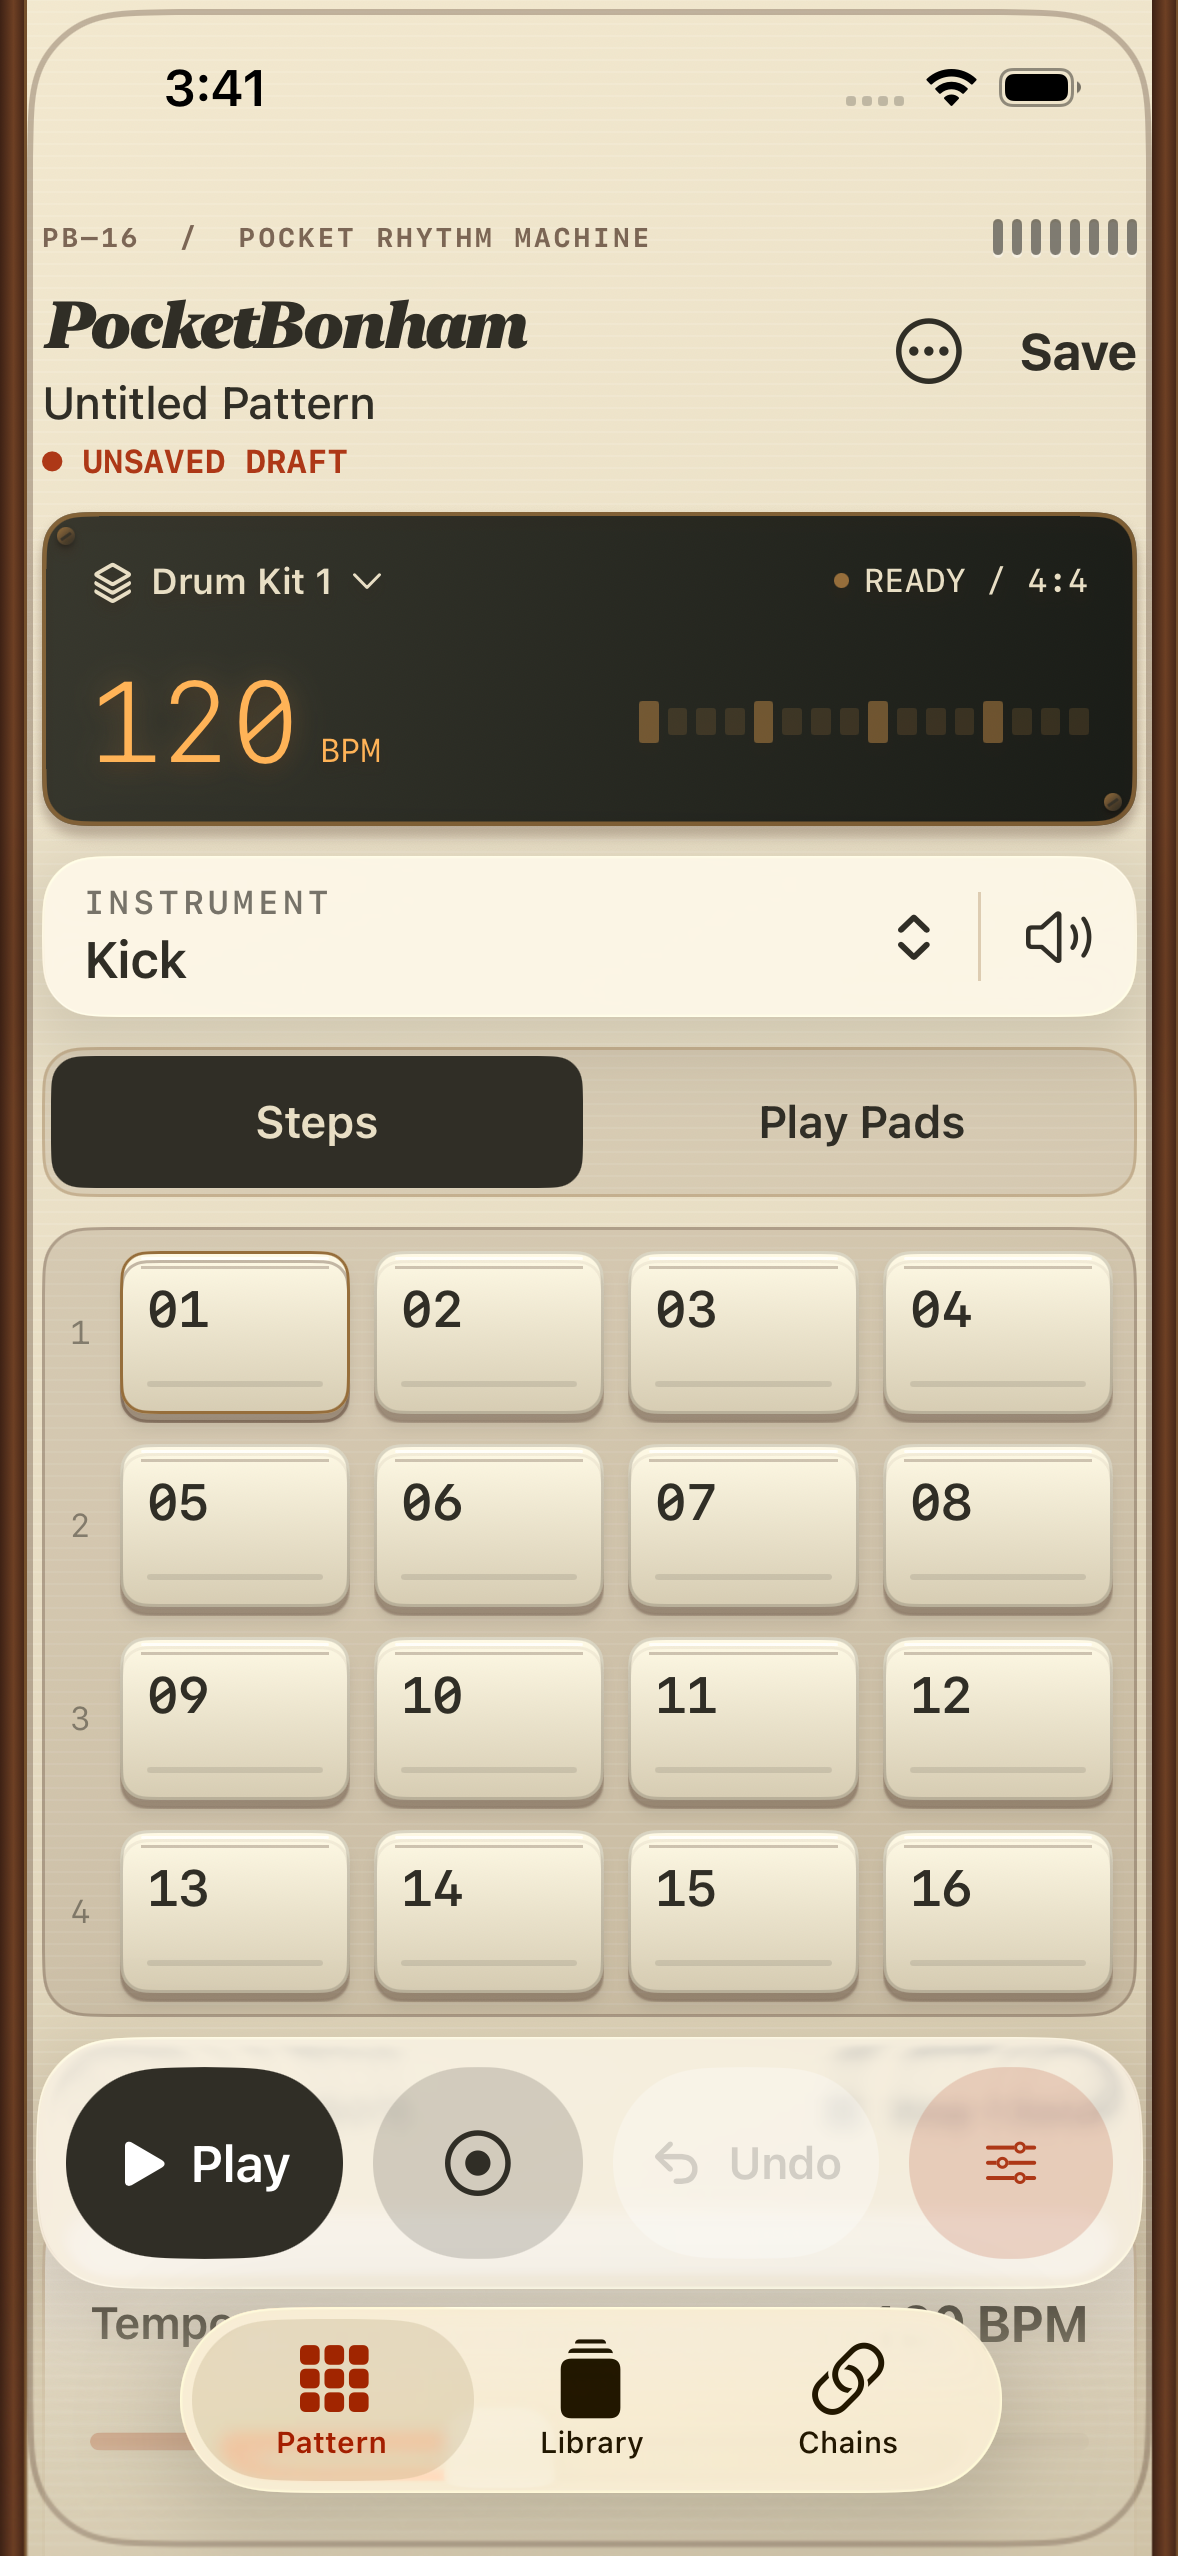
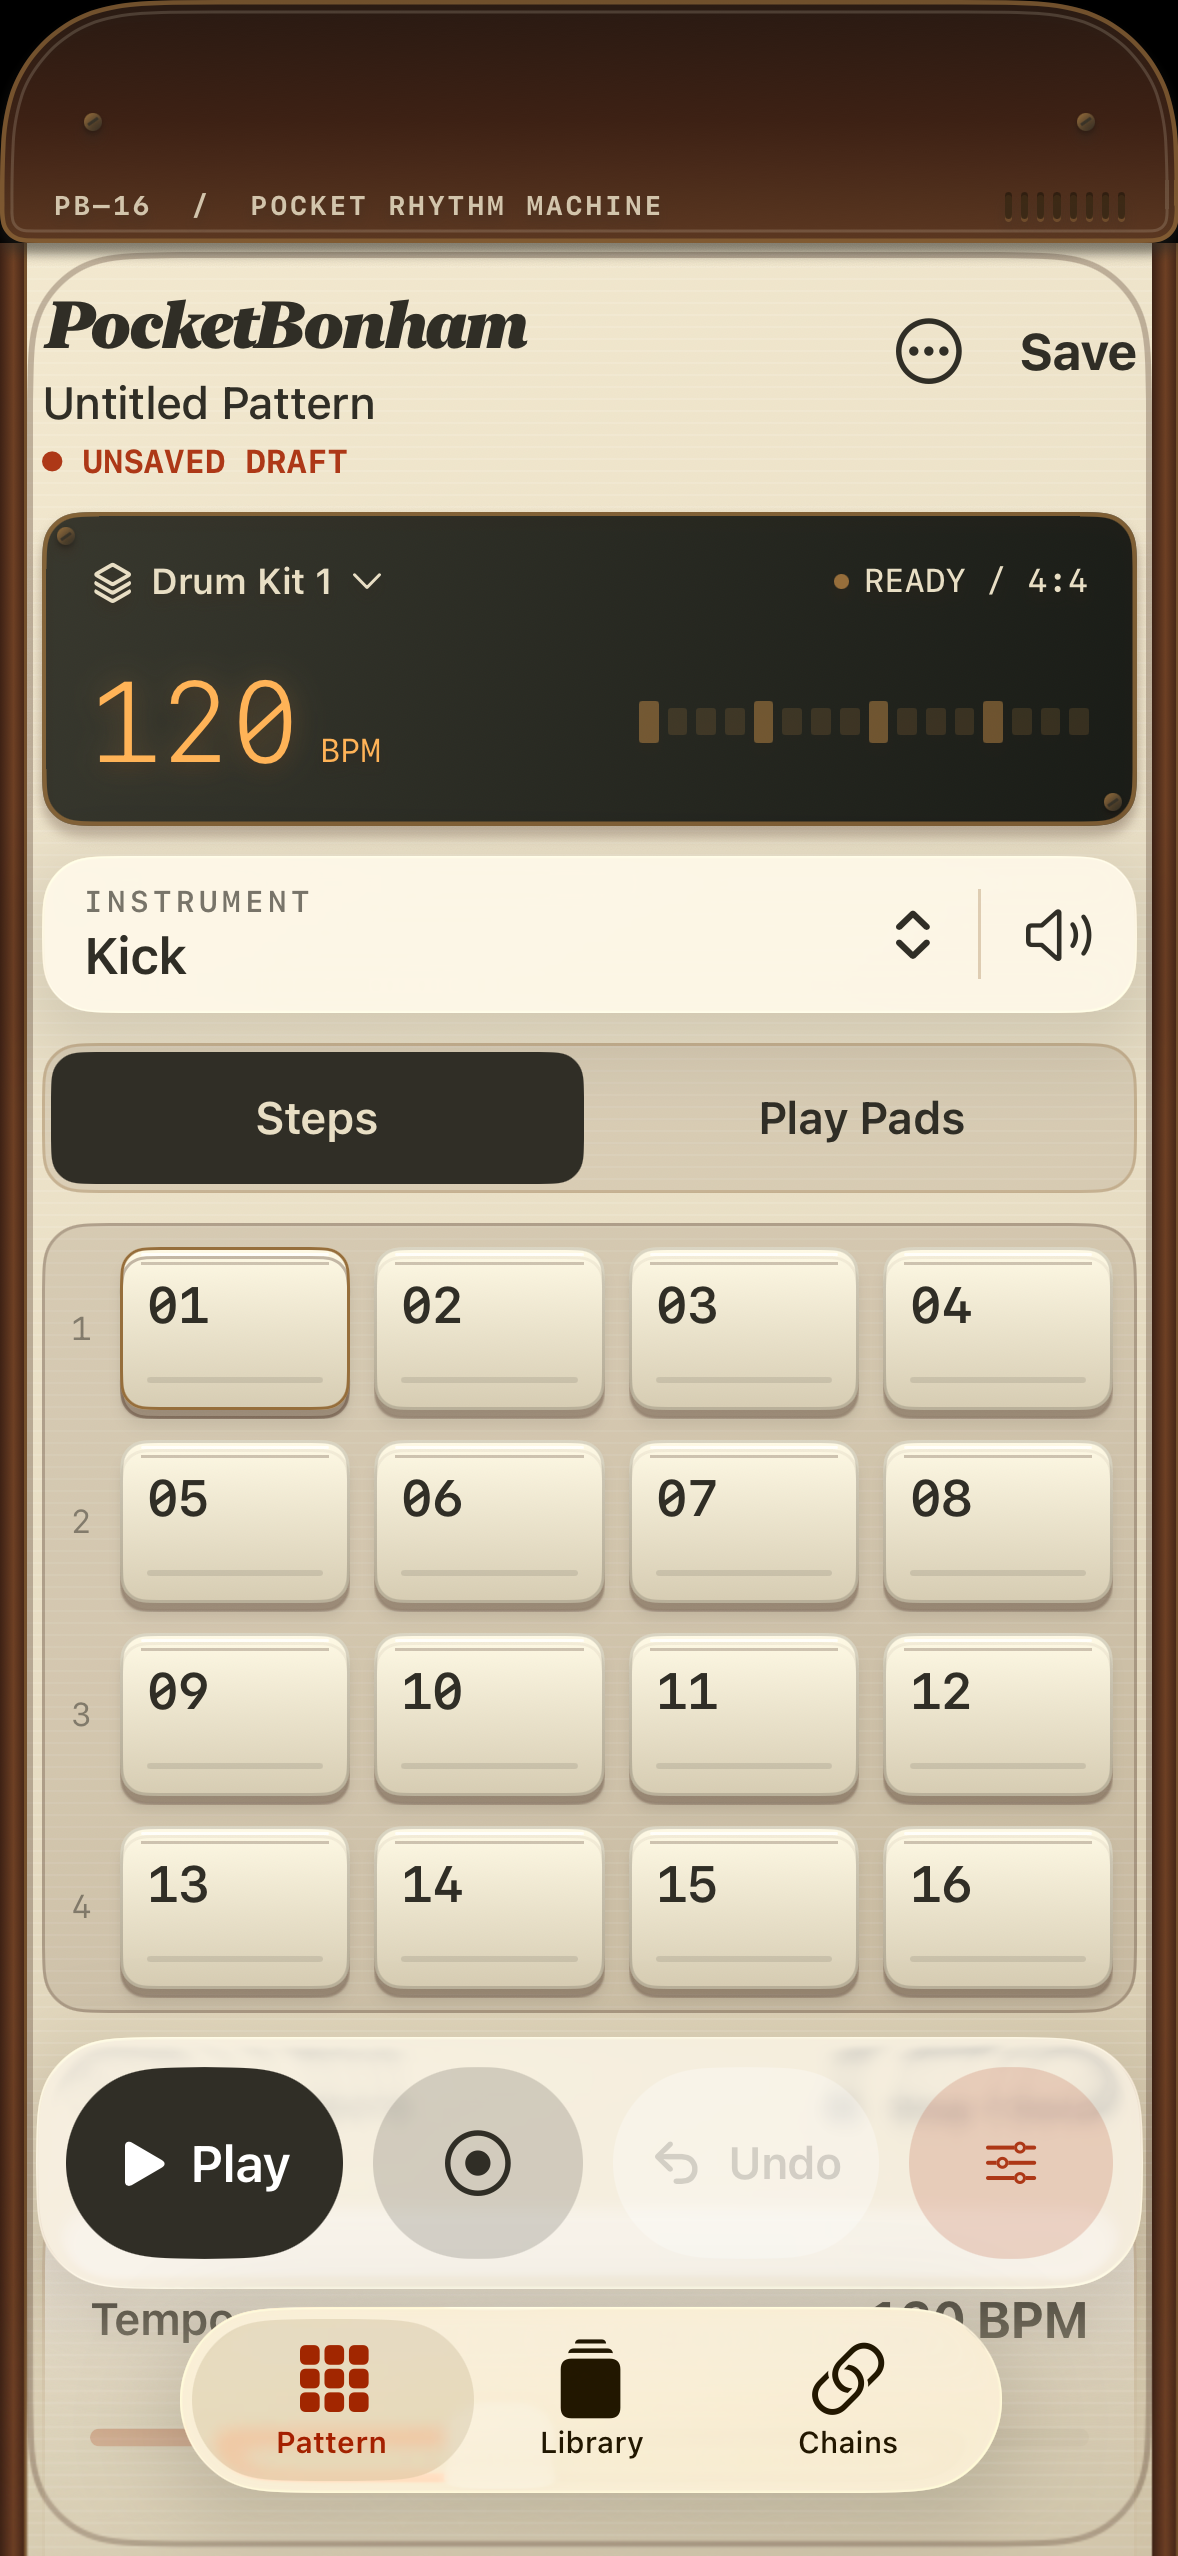
Extend fixed vintage enclosure around the Dynamic Island

diff --git a/PocketBonham/Features/InstrumentDesign.swift b/PocketBonham/Features/InstrumentDesign.swift
@@ -143,3 +143,56 @@ struct VelocityFader: View {
       .accessibilityIdentifier("velocityFader")
   }
 }
+
+/// The enclosure belongs to the screen, not the scrolling editor. Its top surface
+/// extends through the system safe area so the camera cutout sits in the casing.
+struct InstrumentChassis: ViewModifier {
+  func body(content: Content) -> some View {
+    GeometryReader { geometry in
+      content
+        .padding(.top, 22)
+        .overlay(alignment: .top) {
+          InstrumentTopCap()
+            .frame(height: geometry.safeAreaInsets.top + 22)
+            .offset(y: -geometry.safeAreaInsets.top)
+            .allowsHitTesting(false)
+        }
+    }.statusBarHidden(true)
+  }
+}
+
+private struct InstrumentTopCap: View {
+  private let outline = UnevenRoundedRectangle(
+    topLeadingRadius: 48, bottomLeadingRadius: 9,
+    bottomTrailingRadius: 9, topTrailingRadius: 48)
+
+  var body: some View {
+    ZStack(alignment: .bottom) {
+      outline.fill(LinearGradient(
+        colors: [Color(red: 0.16, green: 0.10, blue: 0.07), .walnut,
+          Color(red: 0.36, green: 0.22, blue: 0.13)],
+        startPoint: .top, endPoint: .bottom))
+      outline.strokeBorder(Color.brass.opacity(0.65), lineWidth: 1.5)
+      outline.inset(by: 4).stroke(Color.casing.opacity(0.18), lineWidth: 1)
+      HStack {
+        ScrewHead()
+        Spacer()
+        ScrewHead()
+      }.padding(.horizontal, 28).frame(maxHeight: .infinity, alignment: .center)
+      HStack(spacing: 8) {
+        Text("PB–16  /  POCKET RHYTHM MACHINE")
+          .font(.system(size: 9, weight: .bold, design: .monospaced)).tracking(1)
+          .lineLimit(1).minimumScaleFactor(0.7)
+        Spacer(minLength: 0)
+        SpeakerGrille().frame(width: 40, height: 9)
+          .colorMultiply(.brass)
+      }.foregroundStyle(Color.casing.opacity(0.85))
+        .padding(.horizontal, 18).padding(.bottom, 7)
+    }
+    .background(Color.black)
+    .shadow(color: Color.ink.opacity(0.35), radius: 2, y: 3)
+    .accessibilityElement(children: .ignore)
+    .accessibilityLabel("PocketBonham PB–16 enclosure")
+    .accessibilityIdentifier("instrumentTopCap")
+  }
+}

diff --git a/PocketBonhamUITests/PocketBonhamUITests.swift b/PocketBonhamUITests/PocketBonhamUITests.swift
@@ -1,6 +1,37 @@
 import XCTest
 
 final class PocketBonhamUITests: XCTestCase {
+  @MainActor func testChassisStaysAtScreenTopWhileScrollingAndChangingTabs() throws {
+    let app = XCUIApplication()
+    app.launchEnvironment["PB_TEST_SESSION"] = UUID().uuidString
+    app.launch()
+    let cap = app.descendants(matching: .any)["instrumentTopCap"].firstMatch
+    XCTAssertTrue(cap.waitForExistence(timeout: 10))
+    let topFrame = cap.frame
+    XCTAssertEqual(topFrame.minY, app.frame.minY, accuracy: 1,
+      "The casing must extend through the top safe area")
+    XCTAssertGreaterThanOrEqual(app.staticTexts["PocketBonham"].frame.minY, topFrame.maxY,
+      "The wordmark must be fully below the casing")
+    XCTAssertGreaterThanOrEqual(app.buttons["savePattern"].frame.minY, topFrame.maxY,
+      "The casing cannot cover the editor header")
+    XCTAssertGreaterThan(topFrame.height, 60, "The end cap must enclose the camera area")
+    XCTAssertLessThan(topFrame.height, 110, "Controls must remain below a compact end cap")
+    let initial = XCTAttachment(screenshot: app.screenshot())
+    initial.name = "Fixed enclosure — screen top"
+    initial.lifetime = .keepAlways
+    add(initial)
+    app.scrollViews.firstMatch.swipeUp()
+    XCTAssertEqual(cap.frame, topFrame, "The physical top cannot move with the editor")
+    let scrolled = XCTAttachment(screenshot: app.screenshot())
+    scrolled.name = "Fixed enclosure — editor scrolled"
+    scrolled.lifetime = .keepAlways
+    add(scrolled)
+    for tab in ["Library", "Chains", "Pattern"] {
+      app.tabBars.buttons[tab].tap()
+      XCTAssertEqual(cap.frame, topFrame, "The enclosure must stay fixed in \(tab)")
+    }
+  }
+
   @MainActor func testInstrumentDropdownPreservesIndependentSteps() throws {
     let app = XCUIApplication()
     app.launchEnvironment["PB_TEST_SESSION"] = UUID().uuidString

diff --git a/PocketBonham/Features/RootView.swift b/PocketBonham/Features/RootView.swift
@@ -17,6 +17,7 @@ struct RootView: View {
         Label("Chains", systemImage: "link")
       }.tag("chains")
     }.tint(.signal)
+      .modifier(InstrumentChassis())
       .sheet(isPresented: $settings) { SettingsView(store: store, audio: audio) }
       .alert(
         "PocketBonham",
@@ -89,11 +90,6 @@ struct PatternView: View {
   var body: some View {
     ScrollView {
       VStack(alignment: .leading, spacing: 10) {
-        HStack {
-          Text("PB–16  /  POCKET RHYTHM MACHINE").font(.system(size: 9, weight: .bold, design: .monospaced)).tracking(1)
-          Spacer()
-          SpeakerGrille().frame(width: 48, height: 12)
-        }.foregroundStyle(Color.walnut.opacity(0.65)).accessibilityHidden(true)
         HStack(alignment: .top) {
           VStack(alignment: .leading, spacing: 4) {
             Text("PocketBonham").font(.system(.title2, design: .serif).weight(.black))
@@ -219,7 +215,8 @@ struct PatternView: View {
         Text("A little machine. A big pocket.").font(.system(.subheadline, design: .serif).italic())
           .foregroundStyle(Color.ink.opacity(0.45)).padding(.bottom, 8)
       }.padding(14)
-    }.scrollDisabled(velocityEdit != nil)
+    }.scrollIndicators(.hidden)
+      .scrollDisabled(velocityEdit != nil)
       .onDisappear { finishVelocity() }
       .onChange(of: scenePhase) { _, phase in if phase != .active { finishVelocity() } }
       .onChange(of: store.selectedTrack) { _, _ in finishVelocity() }

diff --git a/AI_CONTEXT.md b/AI_CONTEXT.md
@@ -29,6 +29,10 @@ The owner requested a more vintage analog appearance that blends with modern App
 
 The horizontal instrument scroller is replaced with an **Instrument** menu listing the entire current kit. Preserve its `instrumentSelector` accessibility identifier and `instrument-option-<role>` identifiers. Choosing a drum changes only editing selection and the appropriate pad page; notes on other tracks must remain intact. Audition remains a separate adjacent button. Visual components are in `PocketBonham/Features/InstrumentDesign.swift`; use the existing theme rather than introducing another palette.
 
+### The phone is the enclosure
+
+The owner wants the screen's top to read as the physical end of the vintage machine, including the area around the iPhone 16 Dynamic Island. `InstrumentChassis` at the root pins a rounded walnut/brass end cap above all three workspaces. The cap uses the root safe-area inset to extend to the actual screen top, hides the status bar for the instrument presentation, and moves the model engraving out of the scrolling editor. The camera hardware remains a system cutout; do not draw a fake island or place controls underneath it. Keep the cap outside scroll views and preserve the user's ability to scroll lower controls at large text sizes.
+
 ### Hold-and-slide per-note velocity
 
 Holding an enabled sequencer pad for 0.35 seconds reveals a vertical fader; the same finger drags up/down to change that note's `Step.level` (1–127), and release closes it. A 160-point vertical drag spans the full range. The target pattern UUID, instrument ID and step are captured at the beginning; other tracks and steps remain unchanged. Each drag is one undo group. Cancellation ends the group at its current value; backgrounding, navigation or selection changes dismiss the fader. Holding a disabled step still opens Step Details. Full Step Details remains available via the explicit button. VoiceOver supports ±5 adjustments.
@@ -69,6 +73,7 @@ Drum Kit 1 sorts ahead of fixtures and is the fresh-library default. Existing ki
 
 - Latest ordinary package run after the hat fix: **29 discovered, 28 passed, one opt-in hour test skipped, zero failures**.
 - Full simulator UI run: **6 passed, zero failures**, approximately 130 seconds; both affected layout tests passed again after final pad-size and large-text refinements.
+- Latest fixed-enclosure update: **4 affected UI tests passed**, including a new scroll/tab/header-clearance regression; signed iPhone Release build and signature verification passed. See [enclosure evidence](docs/evidence/enclosure-verification.txt).
 - The earlier full offline hour passed with every measured onset within one frame. It is accelerated musical time, not an hour of physical-phone stability.
 - All nine supplied samples decode at both 44.1 and 48 kHz. Kit 1 is 1.31 MiB of stereo PCM at 48 kHz; combined with fixtures, 3.26 MiB / 192 MiB preparation budget.
 - Simulator app built, installed and launched. Signed iPhone Release build and signature verification succeeded locally.

diff --git a/README.md b/README.md
@@ -18,7 +18,7 @@ Built with **SwiftUI · UIKit · AVAudioEngine · Swift · C++17** for **iOS 18+
 
 Choose a drum and place hits on the grid. Hold a lit step and slide up or down to set its velocity. Dial in swing, add a snare roll, or pitch a single tom without changing the rest of the track. Switch to pads to overdub a performance, then save the pattern and combine it with others in a chain.
 
-The interface borrows the focus of a small hardware instrument: walnut edges, cream keycaps, brass details, dark pads and an amber tempo display. A direct instrument dropdown and floating glass transport bring that vintage character into a modern iPhone interface. [See the per-note velocity fader](docs/images/velocity.png).
+A fixed rounded top cap surrounds the camera area, making the phone feel like the instrument itself. The interface borrows the focus of a small hardware instrument: walnut edges, cream keycaps, brass details, dark pads and an amber tempo display. A direct instrument dropdown and floating glass transport bring that vintage character into a modern iPhone interface. [See the per-note velocity fader](docs/images/velocity.png).
 
 | Make the beat | Give it character | Build the arrangement |
 |---|---|---|

diff --git a/docs/Testing.md b/docs/Testing.md
@@ -76,6 +76,8 @@ After final layout refinements, the pad and accessibility tests passed again; th
 
 See the [vintage/velocity verification summary](evidence/vintage-velocity-verification.txt).
 
+A separate enclosure regression checks that the fixed top cap reaches the screen edge, clears the header, and stays in place while scrolling and switching workspaces. It runs alongside the pad, recording/lifecycle and large-text checks for the top-casing update: [four passing tests and build evidence](evidence/enclosure-verification.txt).
+
 Every test gets its own Debug support directory through `PB_TEST_SESSION`; never erase an ordinary user library to get a test to pass. Screenshots and full result bundles are written locally under `build/`. Selected screenshots and concise result summaries are committed under `docs/`.
 
 ## Physical acceptance still required

diff --git a/CHANGELOG.md b/CHANGELOG.md
@@ -18,6 +18,8 @@
 
 ### Interface
 
+- Added a fixed rounded walnut/brass top cap extending around the Dynamic Island, with the model engraving on the casing and an immersive hidden status bar.
+
 - Added a vintage cream, walnut and brass theme with an amber display and tactile step/pad surfaces.
 - Blended the instrument selector and floating transport with native Liquid Glass on iOS 26 and material fallbacks on older systems.
 - Replaced horizontal instrument scrolling with a complete-kit dropdown, current-selection checkmark, mute/solo labels and direct pad-page navigation.
